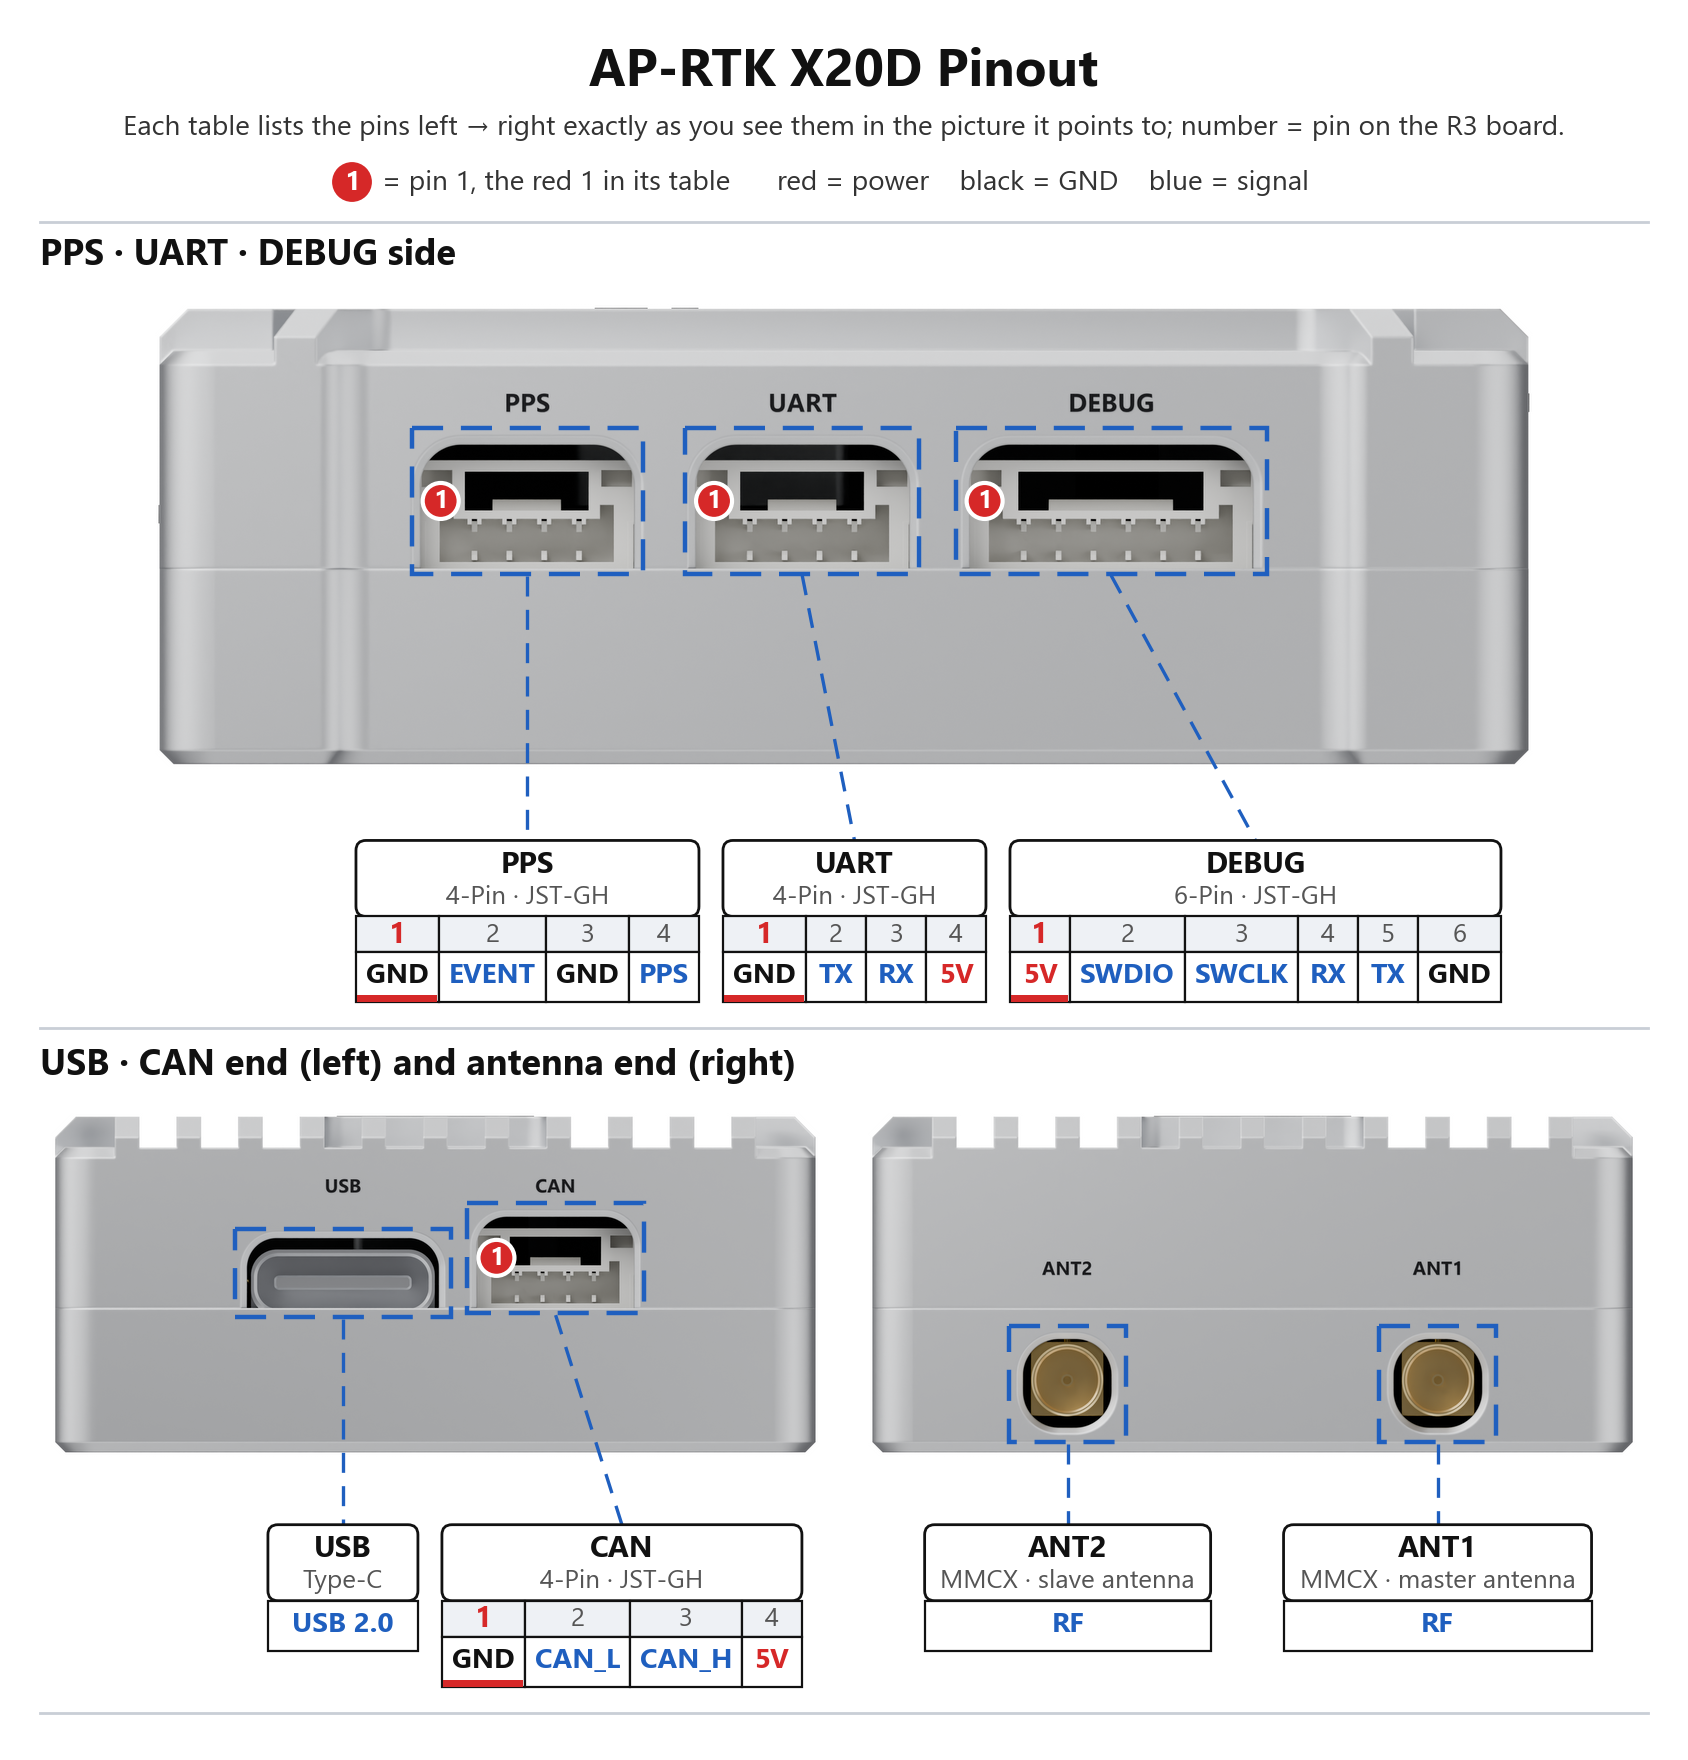
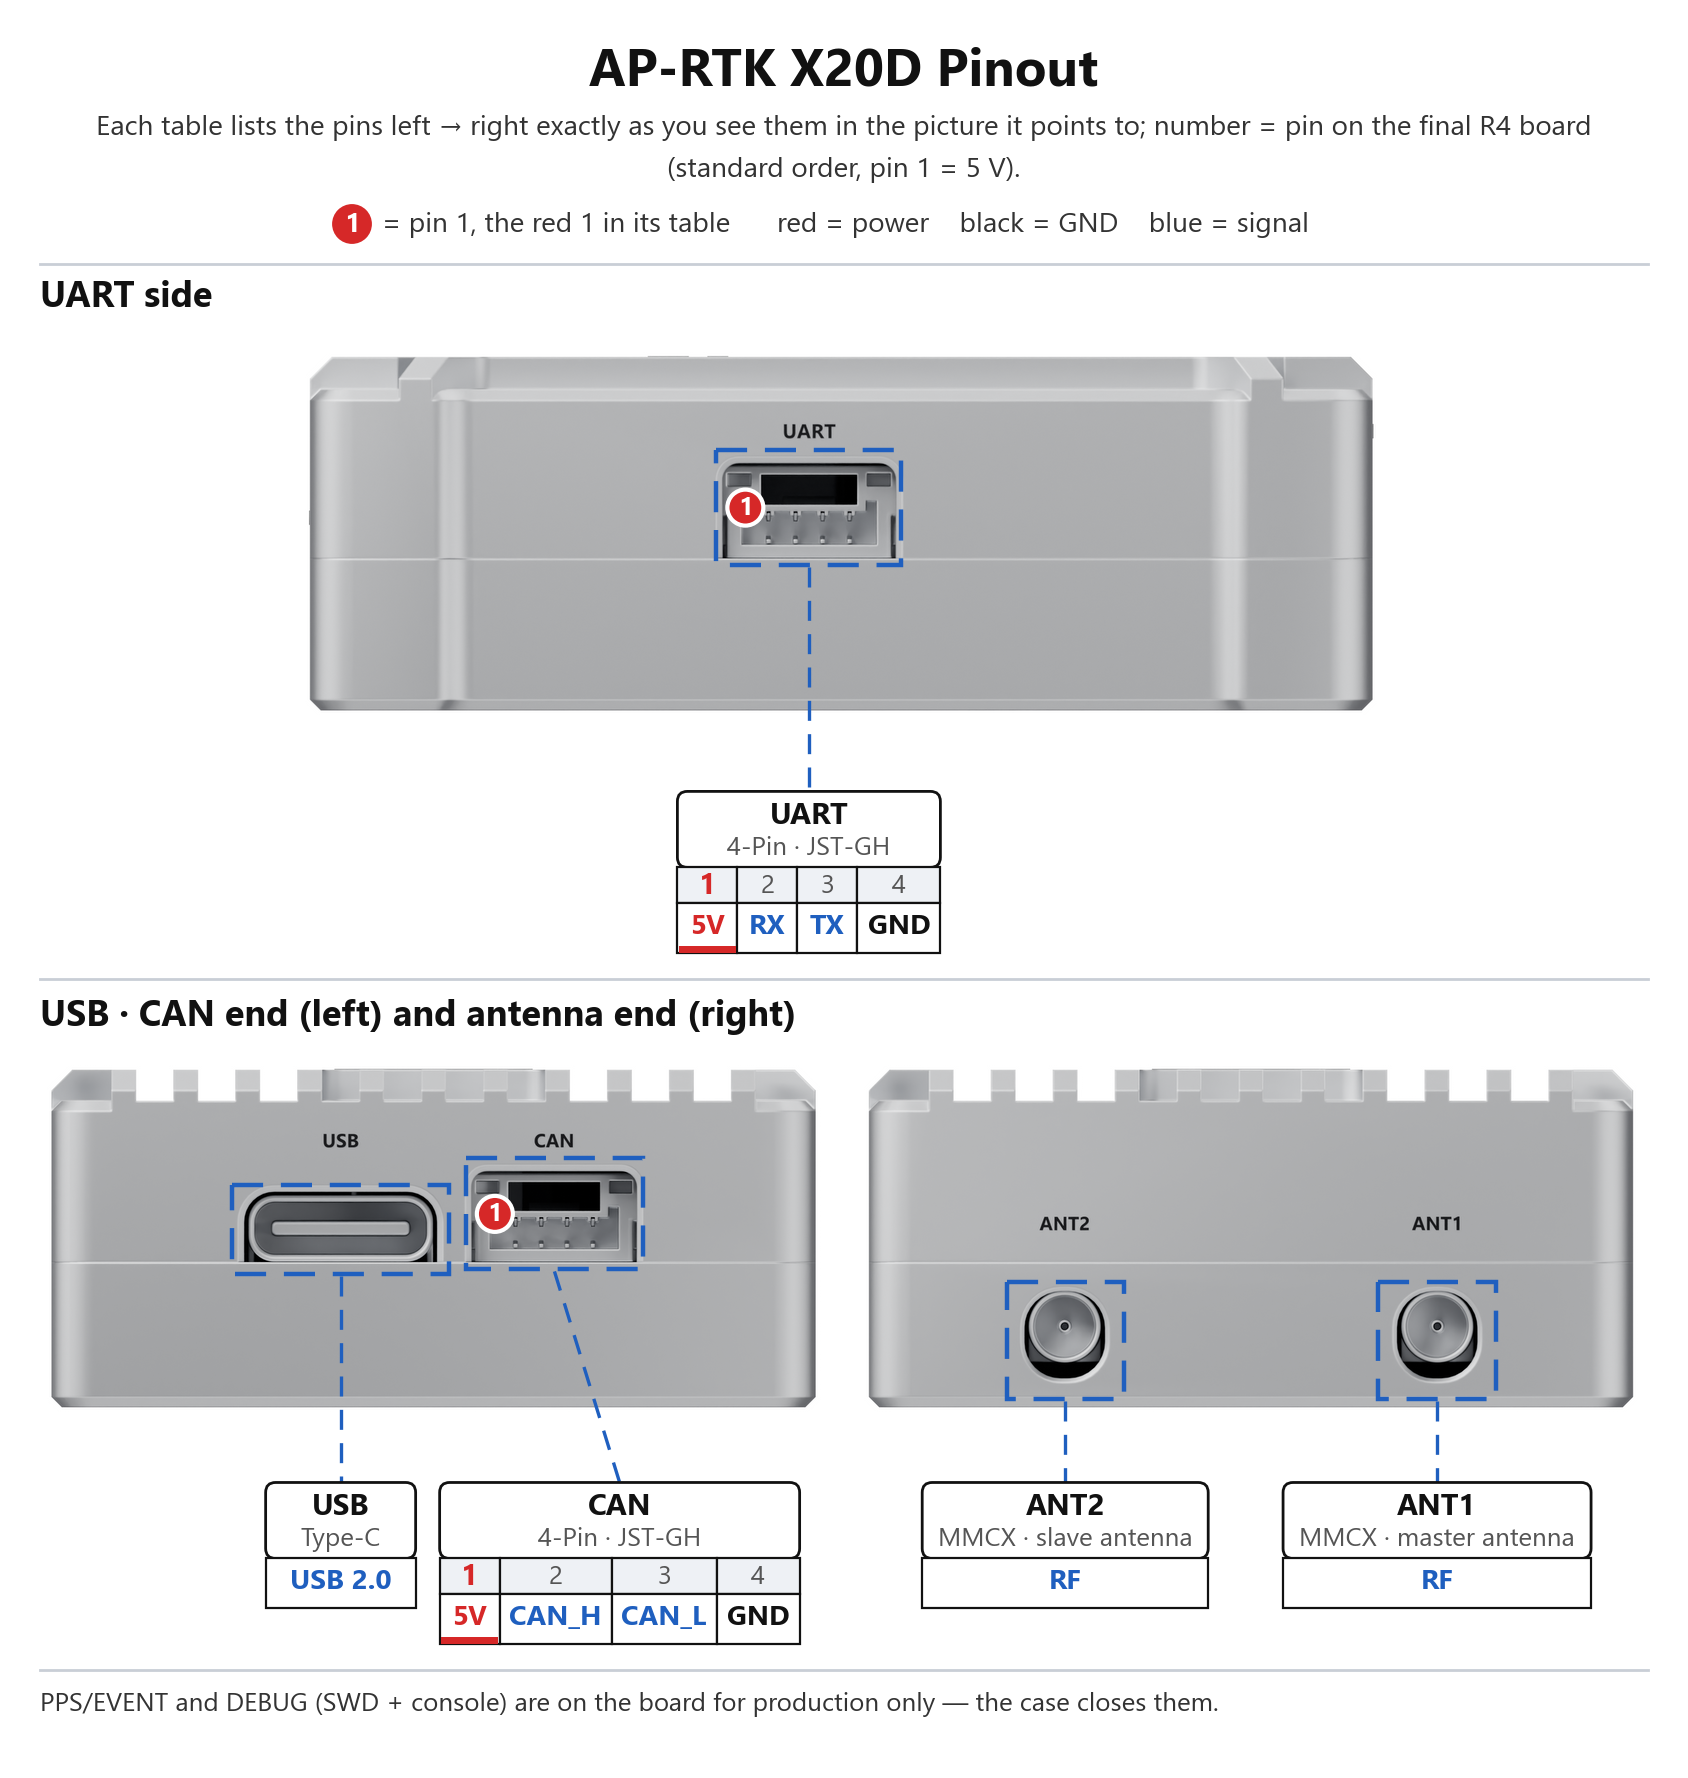
AP-RTK X20D pinout: the final product (R4 board in case V1.1) — UART, CAN, USB, two antennas
Problem: the pinout still showed the R3 engineering case with PPS, UART and DEBUG ports and R3 pin numbers (pin 1 =
GND). The final X20D has no PPS or DEBUG port — they stay on the board and the case closes them (director, 2026-10-27)
— and the final R4 board uses the standard order (pin 1 = 5 V), so the R3 numbers would swap 5 V and GND for a user.

Solution: the pinout drawn on the catalog render of the final product (left side UART, front USB + CAN, rear ANT2 +
ANT1; camera from the render log, boxes = the September case marks moved by the checked (-4.97, -5.00) offset), with
the R4 pin map (hardware/R4/pinmap_R4.json): UART 1 5V · 2 RX · 3 TX · 4 GND, CAN 1 5V · 2 CAN_H · 3 CAN_L · 4 GND,
pin 1 on the left (latch window up). I/O Ports and pinoutNotes say PPS/EVENT and DEBUG are closed by the case; the
product-facts test checks the R4 order instead of the R3 one. One shared render-view helper now serves X20D and AP-RTK
dual (dual output byte-identical). Also drops the UTF-8 BOM that 271492a and 5a1933c put on two pinout scripts.

Checks: npm test 24/24, npm run build, npm run validate:remote (0 errors); boxes and pin-1 marks checked on the image.

Changed region(s): [[0.0308, 0.0625, 0.9858, 0.9688]]

diff --git a/tools/pinout/gnss_pinout.py b/tools/pinout/gnss_pinout.py
@@ -1,4 +1,4 @@
-# -*- coding: utf-8 -*-
+# -*- coding: utf-8 -*-
 """GNSS 핀아웃 그림 — AP-RTK X20D · dual · G5H · AP-M10 — 제품당 한 장, 원래 배치(제품 그림 + 아래 표 + 파란 점선) · 표 글자 = 화면 13 px 이상.
 
 규칙(사용자 2026-09-29 "커넥터 모양대로 핀아웃을 설명해야 헷갈리지 않을거 아냐" · 2026-09-30 "제품으로 해서 한페이지로 하고 원래 레이아웃에
@@ -13,13 +13,13 @@
   번호별 신호 = 넷리스트(X20D R3 · G5H · rtk2hp) = 카탈로그 pinoutNotes(pin N → 1 순서로 적혀 있음).
   AP-M10 = 제조사 사진에 적힌 순서(SDA SCL TXD RXD 5V GND). 제조사 핀 번호 자료가 없어 번호·① 를 쓰지 않는다.
 바탕:
-  X20D = 블렌더 평행 투영 3 면(커넥터 정면) — gnss/AP-RTK_X20D/hardware/render/x20d_render_cfg.py <glb> out/pin cfg.json pinout
-         → blender-3d 스킬 product_photo.py(HP). <렌더 폴더>/x20d_{gh,front,ant}_rgba.png + ../blender.log 의 RESULT(카메라 → mm 를 픽셀로)
+  X20D = 카탈로그 렌더(최종 R4 + 케이스 V1.1, 2026-10-27) 왼쪽 옆면(UART) · 앞면(USB · CAN) · 뒷면(ANT) — X20D_RENDER, 카메라 = RESULT.
+         PPS · DEBUG 는 회로에만 있고 케이스로 막는다(이사님 2026-10-27). 옛 R3 그림(PPS · UART · DEBUG 면)은 git 기록에.
   dual = 카탈로그 렌더 앞면(USB · CAN) + 왼쪽 옆면(UART, 2026-10-27 케이스 STEP 에 구멍을 뚫어 다시 렌더) — DUAL_RENDER, 카메라 = RESULT
   G5H = 제품 렌더(앞면 USB·CAN) + 제조사 옆면도(UART — 이 면의 렌더가 없다, src/dual_lineart_vendor.png)
   M10 = 제조사 사진(src/m10_photo_vendor.png, 파란 주석 지움). src 는 git 의 원래 카탈로그 그림 — 출력 파일을 다시 읽지 않는다.
 포트 이름 = 케이스 각인 그대로(PPS · UART · DEBUG · USB · CAN · ANT1 · ANT2). 앞에 원 숫자를 붙이지 않는다 — 빨간 ① = 1 번 핀 표시와 헷갈린다.
-실행: python gnss_pinout.py [x20d dual g5h m10] [--out 폴더] [--x20d 렌더 폴더]   (기본 = public/images/products 의 원래 파일 이름)
+실행: python gnss_pinout.py [x20d dual g5h m10] [--out 폴더] [--x20d 렌더 폴더] [--dual 렌더 폴더]   (기본 = public/images/products 의 원래 파일 이름)
 """
 import json
 import os
@@ -37,7 +37,7 @@ CAT = os.path.normpath(os.path.join(HERE, "..", ".."))
 IMG = os.path.join(CAT, "public", "images", "products")
 SRC = os.path.join(HERE, "src")
 ARGS = sys.argv[1:]
-X20D_RENDER = ARGS[ARGS.index("--x20d") + 1] if "--x20d" in ARGS else "D:/1_Work/remote-results/x20d-pin-views/pin"
+X20D_RENDER = ARGS[ARGS.index("--x20d") + 1] if "--x20d" in ARGS else "D:/1_Work/remote-results/catalog-x20d3-1027/x20d"   # 최종 R4 + 케이스 V1.1
 # AP-RTK dual = 카탈로그 렌더(2026-10-27): 업체 케이스 STEP(RTK-V4)에 없던 UART 구멍을 SolidCraft 로 뚫은 판
 # (미리보기/catalog-render/rtkdual_uart/RTK-V4_uart.step — 이사님 #o847a414d "구멍 솔리드크래프트로 너가 만들면 되는거고").
 DUAL_RENDER = ARGS[ARGS.index("--dual") + 1] if "--dual" in ARGS else "D:/1_Work/remote-results/catalog-rtk3-1027/rtkdual"
@@ -76,10 +76,15 @@ def photo_m10():
     return a, lambda b: (b[0] - 188, b[1] - 188, b[2] - 70, b[3] - 70)
 
 
-def x20d_view(view, reg):
-    """X20D 평행 투영 렌더 한 면(구역 reg 로 자름) → (배열, 케이스 좌표 mm 상자 (x0, x1, y0, y1, z0, z1) → 배열 px 함수)."""
-    log = open(os.path.join(X20D_RENDER, "..", "blender.log"), encoding="utf-8", errors="replace").read()
+def cat_view(render_dir, key, view):
+    """카탈로그 렌더(product_photo.py) 한 면 — 평행 투영 · 투명 배경이라 제품 둘레만 자른다 → (배열, 케이스 mm 상자
+    (x0, x1, y0, y1, z0, z1) → 배열 px 함수, 카메라). 카메라 = <render_dir>/../<key>_blender.log 의 RESULT."""
+    log = open(os.path.join(render_dir, "..", "%s_blender.log" % key), encoding="utf-8", errors="replace").read()
     c = json.loads(log[log.rindex("RESULT ") + 7:].splitlines()[0])["out"][view]["cam"]
+    path = os.path.join(render_dir, "%s_%s_rgba.png" % (key, view))
+    ys, xs = np.nonzero(np.asarray(Image.open(path))[:, :, 3] > 8)
+    m = 30
+    reg = (max(xs.min() - m, 0), xs.max() + m, max(ys.min() - m, 0), ys.max() + m)
     w, h = c["size"]
     s = max(w, h) / c["ortho_scale_mm"]
 
@@ -90,7 +95,7 @@ def x20d_view(view, reg):
     def box(b3):
         pts = [to_px((x, y, z)) for x in b3[:2] for y in b3[2:4] for z in b3[4:6]]
         return min(p[0] for p in pts), max(p[0] for p in pts), min(p[1] for p in pts), max(p[1] for p in pts)
-    return region(load_rgb(os.path.join(X20D_RENDER, "x20d_%s_rgba.png" % view)), *reg), box
+    return region(load_rgb(path), *reg), box, c
 
 
 def joined(parts, height):
@@ -105,21 +110,23 @@ def it(box, name, sub, table, p1=None, side="B", **kw):
 
 # ────────────── 제품별 한 장 ──────────────
 def x20d(sh):
-    XS = -17.7                                                    # PPS · UART · DEBUG 면(x) — 렌더 각인 RESULT at_mm
-    img, box = x20d_view("gh", (20, 2380, 40, 860))
-    sh.caption("PPS · UART · DEBUG side")
-    sh.board(img, [
-        it(box((XS, XS, 8.0, 15.8, 0.5, 5.2)), "PPS", GH4, ("h", word_cells(["GND", "EVENT", "GND", "PPS"], [1, 2, 3, 4])), "L"),
-        it(box((XS, XS, -1.9, 6.0, 0.5, 5.2)), "UART", GH4, ("h", word_cells(["GND", "TX", "RX", "5V"], [1, 2, 3, 4])), "L"),
-        it(box((XS, XS, -14.35, -3.7, 0.5, 5.2)), "DEBUG", "6-Pin · JST-GH",
-           ("h", word_cells(["5V", "SWDIO", "SWCLK", "RX", "TX", "GND"], [1, 2, 3, 4, 5, 6])), "L")], img_w=1400)
-    img, (fb, ab) = joined([x20d_view("front", (0, 1800, 40, 860)), x20d_view("ant", (0, 1800, 40, 860))], 820)
+    """최종 제품 = R4 보드 + 케이스 V1.1(2026-10-08) 카탈로그 렌더. 이사님 2026-10-27 #oaa9ef8ba "X20D 최종은 pps, debug 없어. 회로만 있고
+    케이스로 막을거야" → 밖에 나온 포트 = UART · CAN · USB · ANT1 · ANT2. 번호 = R4 표준 순서(hardware/R4/pinmap_R4.json:
+    U14 1 5V · 2 RTCM_IN = RX · 3 USART6_TX = TX · 4 GND / U16 1 5V · 2 CAN_H · 3 CAN_L · 4 GND — R3 는 거꾸로였다).
+    1 번 끝 = 왼쪽(JST-GH 잠금 창이 위, R3 그림과 같은 자리). 상자 mm = 9 월 케이스 좌표 + (−4.97, −5.00, 0)(x20d_marks.py 8 점 대조)."""
+    DX, DY = -4.97, -5.00
+    side, sb, _ = cat_view(X20D_RENDER, "x20d", "left")
+    sh.caption("UART side")
+    sh.board(side, [it(sb((-17.7 + DX, -17.7 + DX, -1.9 + DY, 6.0 + DY, 0.5, 5.2)), "UART", GH4,
+                       ("h", word_cells(["5V", "RX", "TX", "GND"], [1, 2, 3, 4])), "L")], img_w=1100)
+    img, (fb, ab) = joined([cat_view(X20D_RENDER, "x20d", "front")[:2], cat_view(X20D_RENDER, "x20d", "back")[:2]], 820)
     sh.caption("USB · CAN end (left) and antenna end (right)")
     sh.board(img, [
-        it(fb((-9.4, 0.4, -24, -24, 0.3, 3.9)), "USB", "Type-C", ("one", "USB 2.0", BLUE)),
-        it(fb((1.9, 9.8, -24, -24, 0.5, 5.2)), "CAN", GH4, ("h", word_cells(["GND", "CAN_L", "CAN_H", "5V"], [1, 2, 3, 4])), "L"),
-        it(ab((6.5, 11.5, 25, 25, -5.75, -0.8)), "ANT2", "MMCX · slave antenna", ("one", "RF", BLUE)),
-        it(ab((-11.5, -6.5, 25, 25, -5.75, -0.8)), "ANT1", "MMCX · master antenna", ("one", "RF", BLUE))])
+        it(fb((-9.4 + DX, 0.4 + DX, -29, -29, 0.3, 3.9)), "USB", "Type-C", ("one", "USB 2.0", BLUE)),
+        it(fb((1.9 + DX, 9.8 + DX, -29, -29, 0.5, 5.2)), "CAN", GH4, ("h", word_cells(["5V", "CAN_H", "CAN_L", "GND"], [1, 2, 3, 4])), "L"),
+        it(ab((6.5 + DX, 11.5 + DX, 20, 20, -5.75, -0.8)), "ANT2", "MMCX · slave antenna", ("one", "RF", BLUE)),
+        it(ab((-11.5 + DX, -6.5 + DX, 20, 20, -5.75, -0.8)), "ANT1", "MMCX · master antenna", ("one", "RF", BLUE))])
+    sh.note(["PPS/EVENT and DEBUG (SWD + console) are on the board for production only — the case closes them."])
 
 
 def dual_like(dev, uart_sub, usb_sub):
@@ -134,32 +141,11 @@ def dual_like(dev, uart_sub, usb_sub):
     return draw
 
 
-def dual_view(view):
-    """AP-RTK dual 카탈로그 렌더 한 면(평행 투영, 투명 배경 → 제품 둘레만 자름) → (배열, 케이스 mm 상자 → 배열 px 함수, 카메라).
-    케이스 mm = 업체 STEP 좌표(블렌더 축과 같음): 앞(USB · CAN) = −y · 뒤(안테나) = +y · 왼쪽 옆면(UART) = −x."""
-    log = open(os.path.join(DUAL_RENDER, "..", "rtkdual_blender.log"), encoding="utf-8", errors="replace").read()
-    c = json.loads(log[log.rindex("RESULT ") + 7:].splitlines()[0])["out"][view]["cam"]
-    a = np.asarray(Image.open(os.path.join(DUAL_RENDER, "rtkdual_%s_rgba.png" % view)))
-    ys, xs = np.nonzero(a[:, :, 3] > 8)
-    m = 30
-    reg = (max(xs.min() - m, 0), xs.max() + m, max(ys.min() - m, 0), ys.max() + m)
-    w, h = c["size"]
-    s = max(w, h) / c["ortho_scale_mm"]
-
-    def to_px(p):
-        d = [p[i] - c["center_mm"][i] for i in range(3)]
-        return w / 2 + s * sum(d[i] * c["right"][i] for i in range(3)) - reg[0], h / 2 - s * sum(d[i] * c["up"][i] for i in range(3)) - reg[2]
-
-    def box(b3):
-        pts = [to_px((x, y, z)) for x in b3[:2] for y in b3[2:4] for z in b3[4:6]]
-        return min(p[0] for p in pts), max(p[0] for p in pts), min(p[1] for p in pts), max(p[1] for p in pts)
-    return region(load_rgb(os.path.join(DUAL_RENDER, "rtkdual_%s_rgba.png" % view)), *reg), box, c
-
-
 def dual(sh):
-    """앞면(USB · CAN) + 왼쪽 옆면(UART) 렌더. 1 번 핀(X-RTK2HP V6.0 rtk2hp.kicad_pcb 패드 좌표, 2026-10-27 다시 계산):
-    CAN U17 1 번 = USB 쪽 끝(앞에서 보면 왼쪽) · UART U14 1 번 = 뒤(안테나) 쪽 끝(U14 패드 1 y 104.53 < 4 번 108.28, 앞 가장자리 = y 큰 쪽)."""
-    front, left = dual_view("front"), dual_view("left")
+    """앞면(USB · CAN) + 왼쪽 옆면(UART) 렌더. 케이스 mm = 업체 STEP 좌표(블렌더 축과 같음): 앞 = −y · 뒤(안테나) = +y · UART 면 = −x.
+    1 번 핀(X-RTK2HP V6.0 rtk2hp.kicad_pcb 패드 좌표, 2026-10-27 다시 계산): CAN U17 1 번 = USB 쪽 끝(앞에서 보면 왼쪽) ·
+    UART U14 1 번 = 뒤(안테나) 쪽 끝(U14 패드 1 y 104.53 < 4 번 108.28, 앞 가장자리 = y 큰 쪽)."""
+    front, left = cat_view(DUAL_RENDER, "rtkdual", "front"), cat_view(DUAL_RENDER, "rtkdual", "left")
     img, (fb, lb) = joined([front[:2], left[:2]], 820)
     back_on_left = sum(left[2]["right"][i] * (0, 1, 0)[i] for i in range(3)) < 0     # 왼쪽 옆면 그림에서 뒤(+y)가 왼쪽인가
     uart = ["GND", "TX", "RX", "5V"]
@@ -180,7 +166,8 @@ def m10(sh):
 
 
 PRODUCTS = {
-    "x20d": ("gnss_AP-RTK-X20D_pinout.png", "AP-RTK X20D Pinout", READS + "; number = pin on the R3 board.", LEG_P1, x20d),
+    "x20d": ("gnss_AP-RTK-X20D_pinout.png", "AP-RTK X20D Pinout", READS + "; number = pin on the final R4 board (standard order, pin 1 = 5 V).",
+             LEG_P1, x20d),
     "dual": ("gnss_AP-RTK-dual_pinout.png", "AP-RTK dual Pinout", READS + "; number = pin on the X-RTK2HP V6.0 board.", LEG_P1, dual),
     "g5h": ("gnss_AP-RTK-G5H_pinout.png", "AP-RTK G5H Pinout", READS + " (UART: top → bottom); number = pin on the G5H board.",
             LEG_P1, dual_like("gnss_AP-RTK-G5H_device.png", "4-Pin · JST-GH · receiver COM2", "Type-C · MCU bootloader / DFU")),

diff --git a/tools/pinout/h7_nano_v2_pinout.py b/tools/pinout/h7_nano_v2_pinout.py
@@ -1,4 +1,4 @@
-# -*- coding: utf-8 -*-
+# -*- coding: utf-8 -*-
 """AF-H7 nano V2 핀아웃 한 장 — 윗면 3D 렌더 + 커넥터 표, 아랫면 3D 렌더 + 땜 패드 표 (AF-F4 nano v2 와 같은 배치).
 
 이사님 2026-10-24 #oa01b41c3 "깃에 v2 넣어서 커밍순으로 하고 이런 핀아웃까지 제대로 만들어" (보기 = AF-F4 nano v2 핀아웃).

diff --git a/src/content/gnss/AP-RTK-X20D.md b/src/content/gnss/AP-RTK-X20D.md
@@ -16,14 +16,14 @@ specs:
   - { key: Heading, value: "Receiver ANT1-to-ANT2 baseline (UBX-NAV-DAHEADING v2) sent as RelPosHeading; the autopilot computes heading with GPS1_MB_OFS as for AP-RTK dual (firmware v1.0.6+)" }
   - { key: Update Rate, value: "Firmware requests 5 Hz navigation at 230400 baud; end-to-end CAN rate requires measurement" }
   - { key: Comm. Protocol, value: "DroneCAN — position, ardupilot.gnss.RelPosHeading (v1.0.6+) and separate magnetometer data" }
-  - { key: I/O Ports, value: "2× MMCX antenna · CAN · UART (RTCM input) · DEBUG (SWD + console) · PPS/EVENT · USB-C (MCU)" }
+  - { key: I/O Ports, value: "2× MMCX antenna · CAN · UART (RTCM input) · USB-C (MCU) — PPS/EVENT and DEBUG (SWD + console) stay on the board, closed by the case" }
   - { key: PCB, value: "R3 · 33.00 × 45.17 mm · 4 layers · 0.8 mm" }
   - { key: Firmware, value: "AP_Periph · novaX 1.0.6 engineering release · board ID 6205" }
   - { key: Validation Status, value: "Bench hardware checks passed 2026-09-22 (230400 save, USB and CAN update, heading through the flight controller); outdoor RTK and flight qualification pending" }
 description: |
   AP-RTK X20D uses one u-blox ZED-X20D all-band receiver and two antennas for RTK positioning and heading. The STM32 forwards the receiver's position and heading plus separate RM3100 compass measurements over DroneCAN to the flight controller; yaw fusion belongs to the flight controller, not the peripheral MCU. Product images are renders of the enclosure design (case V1.1) with engraved port and LED names; the gallery also shows the R3 PCB CAD renders. Firmware 1.0.6 is supplied for engineering evaluation, not as production or flight-qualified firmware.
 pinoutImage: /images/products/gnss_AP-RTK-X20D_pinout.png
-pinoutNotes: 'Listed from the last pin to pin 1 (the Pinout image shows each connector as seen and marks pin 1): ① UART (5V · RX · TX · GND) · ② CAN (5V · CAN_H · CAN_L · GND) · ③ DEBUG (GND · TX · RX · SWCLK · SWDIO · 5V) · ④ PPS (PPS · GND · EVENT · GND) · ANT1 · ANT2 (MMCX).'
+pinoutNotes: 'Listed from pin 1 (the Pinout image shows each connector as seen and marks pin 1; final R4 board, standard order): ① UART (5V · RX · TX · GND) · ② CAN (5V · CAN_H · CAN_L · GND) · ANT1 · ANT2 (MMCX). PPS/EVENT and DEBUG are on the board only; the case closes them.'
 firmware:
   - kind: "AP_Periph (DroneCAN update)"
     file: /firmware/gnss/AP-RTK-X20D/AP-RTK_X20D-v1.0.6.bin
